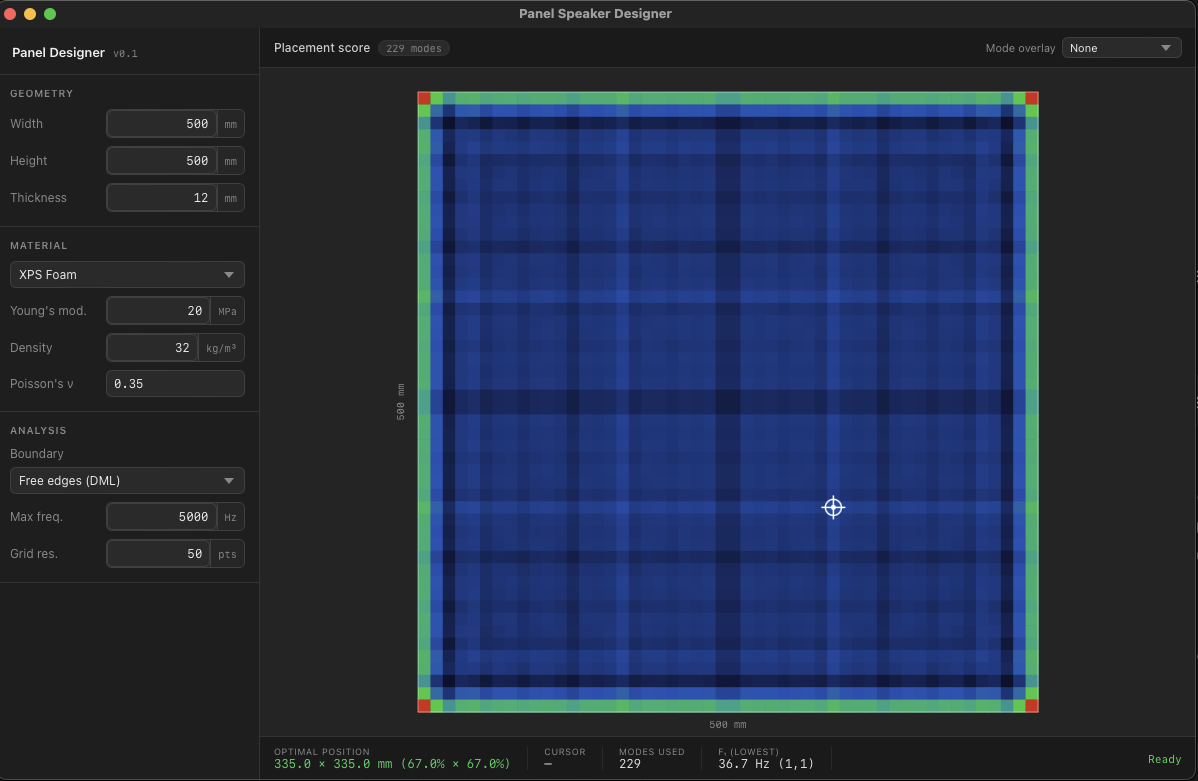
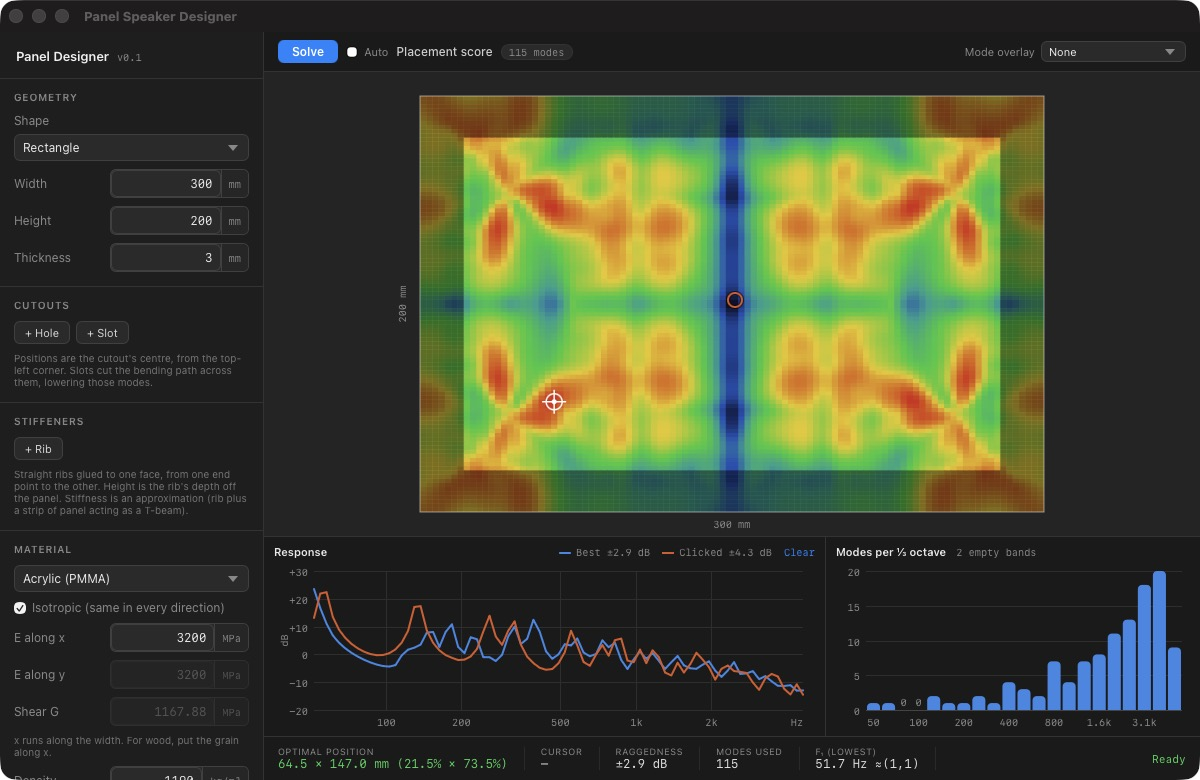
Replace the outdated README screenshot
Capture of the current app: the default 300 × 200 × 3 mm acrylic panel's
heat map, a clicked comparison at the centre, both responses, and modes per
1/3 octave. Re-adds the image to the README with a caption.

diff --git a/README.md b/README.md
@@ -14,6 +14,10 @@ The app calculates the panel's vibration modes, predicts how the panel responds 
 
 Panels can be rectangles, rounded rectangles, ellipses, regular polygons or outlines you draw yourself with Bézier curves, with holes, slots and glued-on stiffening ribs.
 
+![Panel Speaker Designer: placement heat map of a 300 × 200 × 3 mm acrylic panel, with the response at the best position compared against the panel centre, and modes per ⅓ octave](docs/screenshot.png)
+
+*The default 300 × 200 × 3 mm acrylic panel. The crosshair marks the best exciter position; the orange ring is a clicked position at the centre, which sits on both centre-line node lines. Their responses are compared below (±2.9 dB vs ±4.3 dB raggedness), next to the modes per ⅓ octave.*
+
 ---
 
 ## Using it
